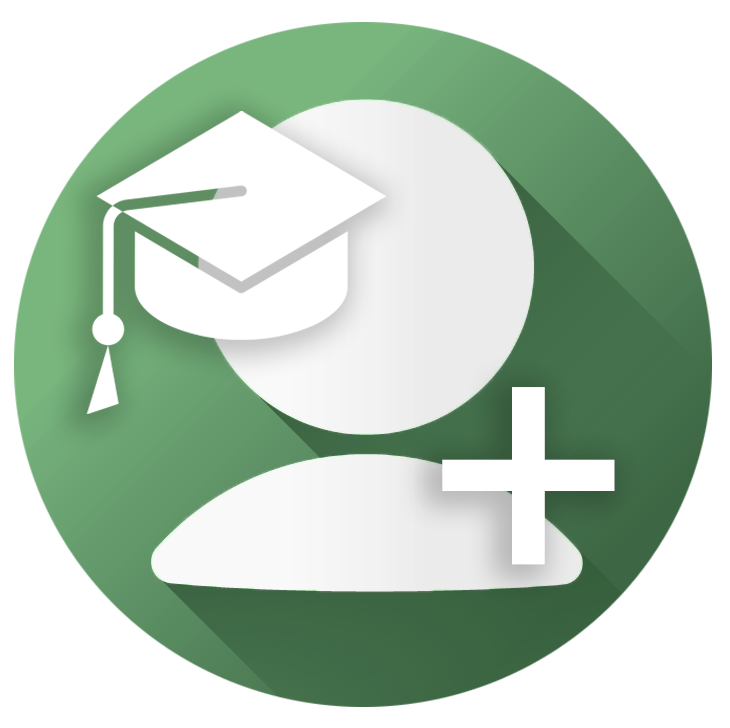
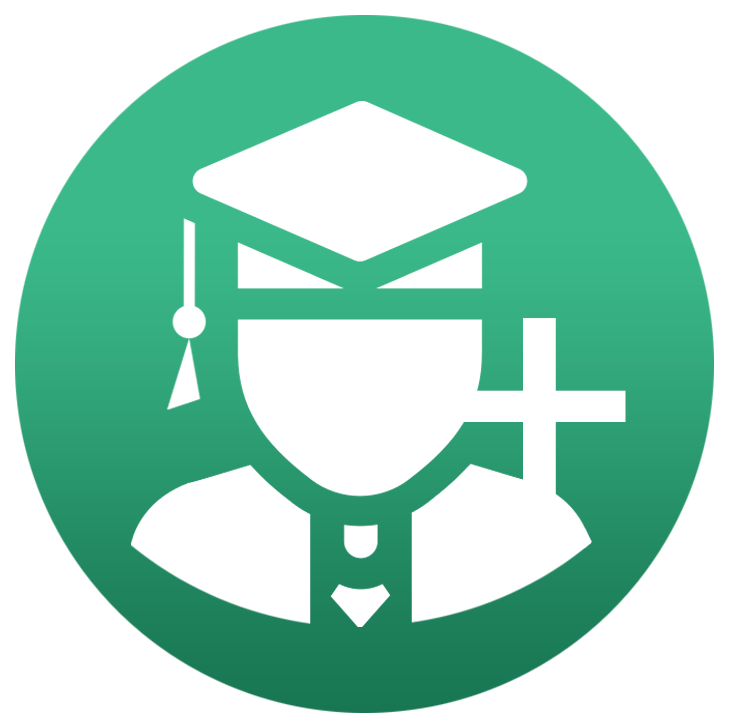
Icone Dashboard alterado completo

diff --git a/frontend/src/components/Dashboard/NewProcess.vue b/frontend/src/components/Dashboard/NewProcess.vue
@@ -2,7 +2,7 @@
     <v-container>
         <v-row no-gutters class="ml-md-5">
             <v-col cols="1">                
-                <v-avatar size="50px"><img src="../../assets/images/Process.png" alt="Avatar para o processo"/></v-avatar>
+                <v-avatar size="55px"><img src="../../assets/images/Process.png" alt="Avatar para o processo"/></v-avatar>
             </v-col>
             <v-col class="ml-8">
                 <h3 style="color: #197855">Registar Novo Processo Equivalência</h3>
